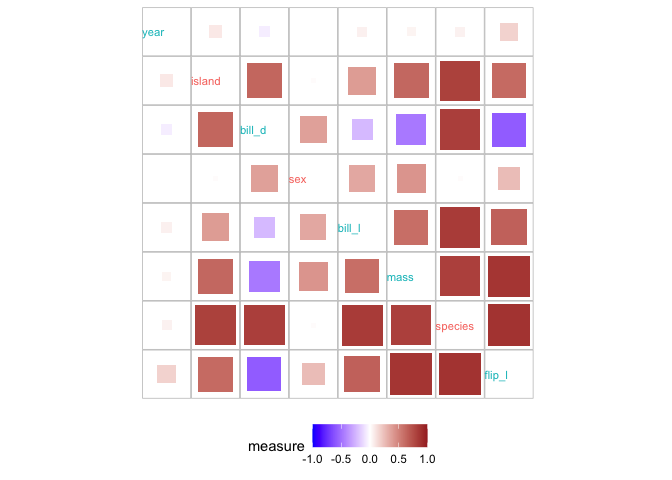
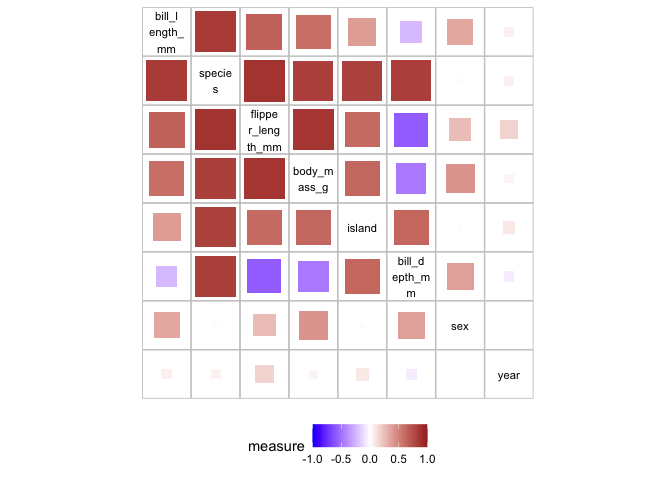
readme update

Changed region(s): [[0.2188, 0.0, 0.8125, 0.8438], [0.6562, 0.0312, 0.7812, 0.0938], [0.5938, 0.0312, 0.625, 0.0938]]

diff --git a/README.md b/README.md
@@ -37,13 +37,7 @@ library(corVis)
 library(palmerpenguins)
 
 penguins_df <- palmerpenguins::penguins
-names(penguins_df)
-#> [1] "species"           "island"            "bill_length_mm"   
-#> [4] "bill_depth_mm"     "flipper_length_mm" "body_mass_g"      
-#> [7] "sex"               "year"
-names(penguins_df) <- c("species", "island", "bill_l",
-                 "bill_d", "flip_l", "mass",
-                 "sex", "year")
+
 penguins_assoc <- calc_assoc(penguins_df)
 plot_assoc_matrix(penguins_assoc)
 ```
@@ -58,24 +52,13 @@ measures in order to reveal variable pairs with high difference among
 the measures.
 
 ``` r
-penguins_pearson <- tbl_cor(penguins_df)
-penguin_distance <- tbl_dcor(penguins_df)
-penguins_mic <- tbl_mine(penguins_df)
-penguins_cancor <- tbl_cancor(penguins_df)
-penguins_nmi <- tbl_nmi(penguins_df)
+penguins_num <- dplyr::select(penguins_df,where(is.numeric))
+penguins_compare <- calc_assoc_all(penguins_num)
 
-penguins_compare <- rbind(penguins_pearson, 
-                          penguin_distance, 
-                          penguins_mic, 
-                          penguins_cancor,
-                          penguins_nmi)
-penguins_compare$measure_type <- factor(penguins_compare$measure_type,
-                                        levels = c("cancor","nmi","pearson",
-                                                   "mic","dcor"))
 
-plot_assoc_linear(penguins_compare,
-                  var_order = "max_diff",
-                  limits = c(0,1))
+plot_assoc_matrix(penguins_compare,
+                  var_order = "default",
+                  limits = c(-1,1))
 ```
 
 <img src="man/figures/README-example2-1.png" width="100%" />
